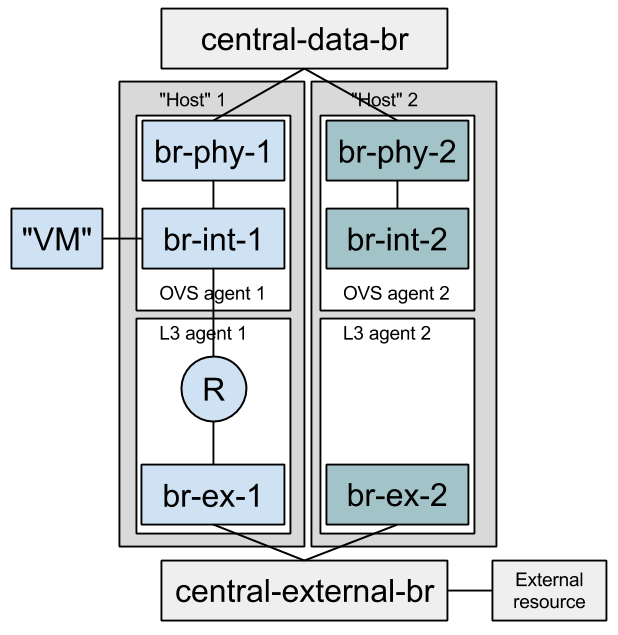
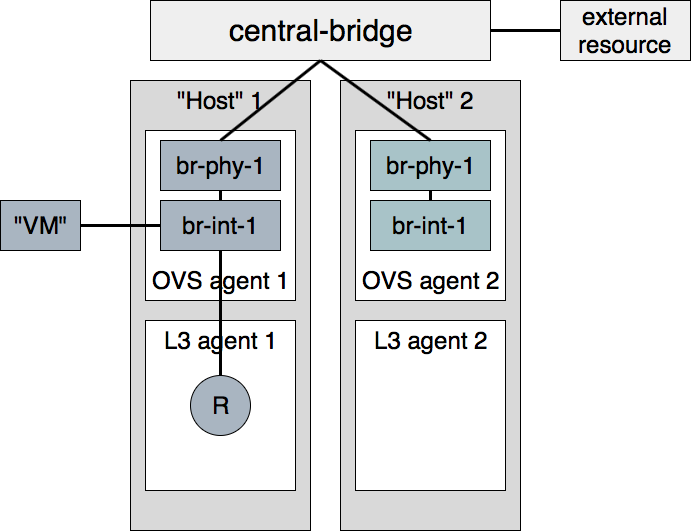
[Fullstack] Remove central_external_bridge
It is not necessary to use 2 "central" bridges, one for "data" and
one for "external" network simulation.
Also using 2 bridge will cause problems when "external_network_bridge"
option will be removed from L3 agent and it will use integration bridge
as it should be done.

diff --git a/neutron/tests/fullstack/resources/environment.py b/neutron/tests/fullstack/resources/environment.py
@@ -90,15 +90,13 @@ class Host(fixtures.Fixture):
     and disconnects the host from other hosts.
     """
 
-    def __init__(self, env_desc, host_desc,
-                 test_name, neutron_config,
-                 central_data_bridge, central_external_bridge):
+    def __init__(self, env_desc, host_desc, test_name,
+                 neutron_config, central_bridge):
         self.env_desc = env_desc
         self.host_desc = host_desc
         self.test_name = test_name
         self.neutron_config = neutron_config
-        self.central_data_bridge = central_data_bridge
-        self.central_external_bridge = central_external_bridge
+        self.central_bridge = central_bridge
         self.host_namespace = None
         self.agents = {}
         # we need to cache already created "per network" bridges if linuxbridge
@@ -139,12 +137,12 @@ class Host(fixtures.Fixture):
             self.useFixture(
                 net_helpers.OVSBridgeFixture(
                     agent_cfg_fixture.get_br_tun_name())).bridge
-            self.connect_to_internal_network_via_tunneling()
+            self.connect_to_central_network_via_tunneling()
         else:
             self.br_phys = self.useFixture(
                 net_helpers.OVSBridgeFixture(
                     agent_cfg_fixture.get_br_phys_name())).bridge
-            self.connect_to_internal_network_via_vlans(self.br_phys)
+            self.connect_to_central_network_via_vlans(self.br_phys)
 
         self.ovs_agent = self.useFixture(
             process.OVSAgentFixture(
@@ -160,7 +158,7 @@ class Host(fixtures.Fixture):
             br_ex = self.useFixture(
                 net_helpers.OVSBridgeFixture(
                     self.l3_agent_cfg_fixture.get_external_bridge())).bridge
-            self.connect_to_external_network(br_ex)
+            self.connect_to_central_network_via_vlans(br_ex)
 
         if self.host_desc.dhcp_agent:
             self.dhcp_agent_cfg_fixture = self.useFixture(
@@ -209,7 +207,7 @@ class Host(fixtures.Fixture):
     def _connect_ovs_port(self, cidr_address):
         ovs_device = self.useFixture(
             net_helpers.OVSPortFixture(
-                bridge=self.central_data_bridge,
+                bridge=self.central_bridge,
                 namespace=self.host_namespace)).port
         # NOTE: This sets an IP address on the host's root namespace
         # which is cleaned up when the device is deleted.
@@ -222,7 +220,7 @@ class Host(fixtures.Fixture):
         )
         self.host_port.link.set_up()
 
-    def connect_to_internal_network_via_tunneling(self):
+    def connect_to_central_network_via_tunneling(self):
         veth_1, veth_2 = self.useFixture(
             net_helpers.VethFixture()).ports
 
@@ -233,15 +231,11 @@ class Host(fixtures.Fixture):
         veth_1.link.set_up()
         veth_2.link.set_up()
 
-    def connect_to_internal_network_via_vlans(self, host_data_bridge):
+    def connect_to_central_network_via_vlans(self, host_data_bridge):
         # If using VLANs as a segmentation device, it's needed to connect
         # a provider bridge to a centralized, shared bridge.
         net_helpers.create_patch_ports(
-            self.central_data_bridge, host_data_bridge)
-
-    def connect_to_external_network(self, host_external_bridge):
-        net_helpers.create_patch_ports(
-            self.central_external_bridge, host_external_bridge)
+            self.central_bridge, host_data_bridge)
 
     def allocate_local_ip(self):
         if not self.env_desc.network_range:
@@ -359,17 +353,14 @@ class Environment(fixtures.Fixture):
                  host_desc,
                  self.test_name,
                  neutron_config,
-                 self.central_data_bridge,
-                 self.central_external_bridge))
+                 self.central_bridge))
 
     def _setUp(self):
         self.temp_dir = self.useFixture(fixtures.TempDir()).path
 
         # we need this bridge before rabbit and neutron service will start
-        self.central_data_bridge = self.useFixture(
+        self.central_bridge = self.useFixture(
             net_helpers.OVSBridgeFixture('cnt-data')).bridge
-        self.central_external_bridge = self.useFixture(
-            net_helpers.OVSBridgeFixture('cnt-ex')).bridge
 
         # Get rabbitmq address (and cnt-data network)
         rabbitmq_ip_address = self._configure_port_for_rabbitmq()
@@ -399,7 +390,7 @@ class Environment(fixtures.Fixture):
         if not self.env_desc.network_range:
             return "127.0.0.1"
         rabbitmq_ip = str(self.env_desc.network_range[1])
-        rabbitmq_port = ip_lib.IPDevice(self.central_data_bridge.br_name)
+        rabbitmq_port = ip_lib.IPDevice(self.central_bridge.br_name)
         rabbitmq_port.addr.add(common_utils.ip_to_cidr(rabbitmq_ip, 24))
         rabbitmq_port.link.set_up()
 

diff --git a/neutron/tests/fullstack/test_l3_agent.py b/neutron/tests/fullstack/test_l3_agent.py
@@ -156,7 +156,7 @@ class TestLegacyL3Agent(TestL3Agent):
 
     def test_north_south_traffic(self):
         # This function creates an external network which is connected to
-        # central_external_bridge and spawns an external_vm on it.
+        # central_bridge and spawns an external_vm on it.
         # The external_vm is configured with the gateway_ip (both v4 & v6
         # addresses) of external subnet. Later, it creates a tenant router,
         # a tenant network and two tenant subnets (v4 and v6). The tenant
@@ -170,7 +170,7 @@ class TestLegacyL3Agent(TestL3Agent):
         ext_net, ext_sub = self._create_external_network_and_subnet(tenant_id)
         external_vm = self.useFixture(
             machine_fixtures.FakeMachine(
-                self.environment.central_external_bridge,
+                self.environment.central_bridge,
                 common_utils.ip_to_cidr(ext_sub['gateway_ip'], 24)))
         # Create an IPv6 subnet in the external network
         v6network = self.useFixture(
@@ -214,7 +214,7 @@ class TestLegacyL3Agent(TestL3Agent):
         br_phys = self.environment.hosts[0].br_phys
         br_phys.destroy()
         br_phys.create()
-        self.environment.hosts[0].connect_to_internal_network_via_vlans(
+        self.environment.hosts[0].connect_to_central_network_via_vlans(
             br_phys)
 
         # ping floating ip from external vm
@@ -332,7 +332,7 @@ class TestHAL3Agent(TestL3Agent):
 
         external_vm = self.useFixture(
             machine_fixtures.FakeMachine(
-                self.environment.central_external_bridge,
+                self.environment.central_bridge,
                 common_utils.ip_to_cidr(ext_sub['gateway_ip'], 24)))
 
         common_utils.wait_until_true(
